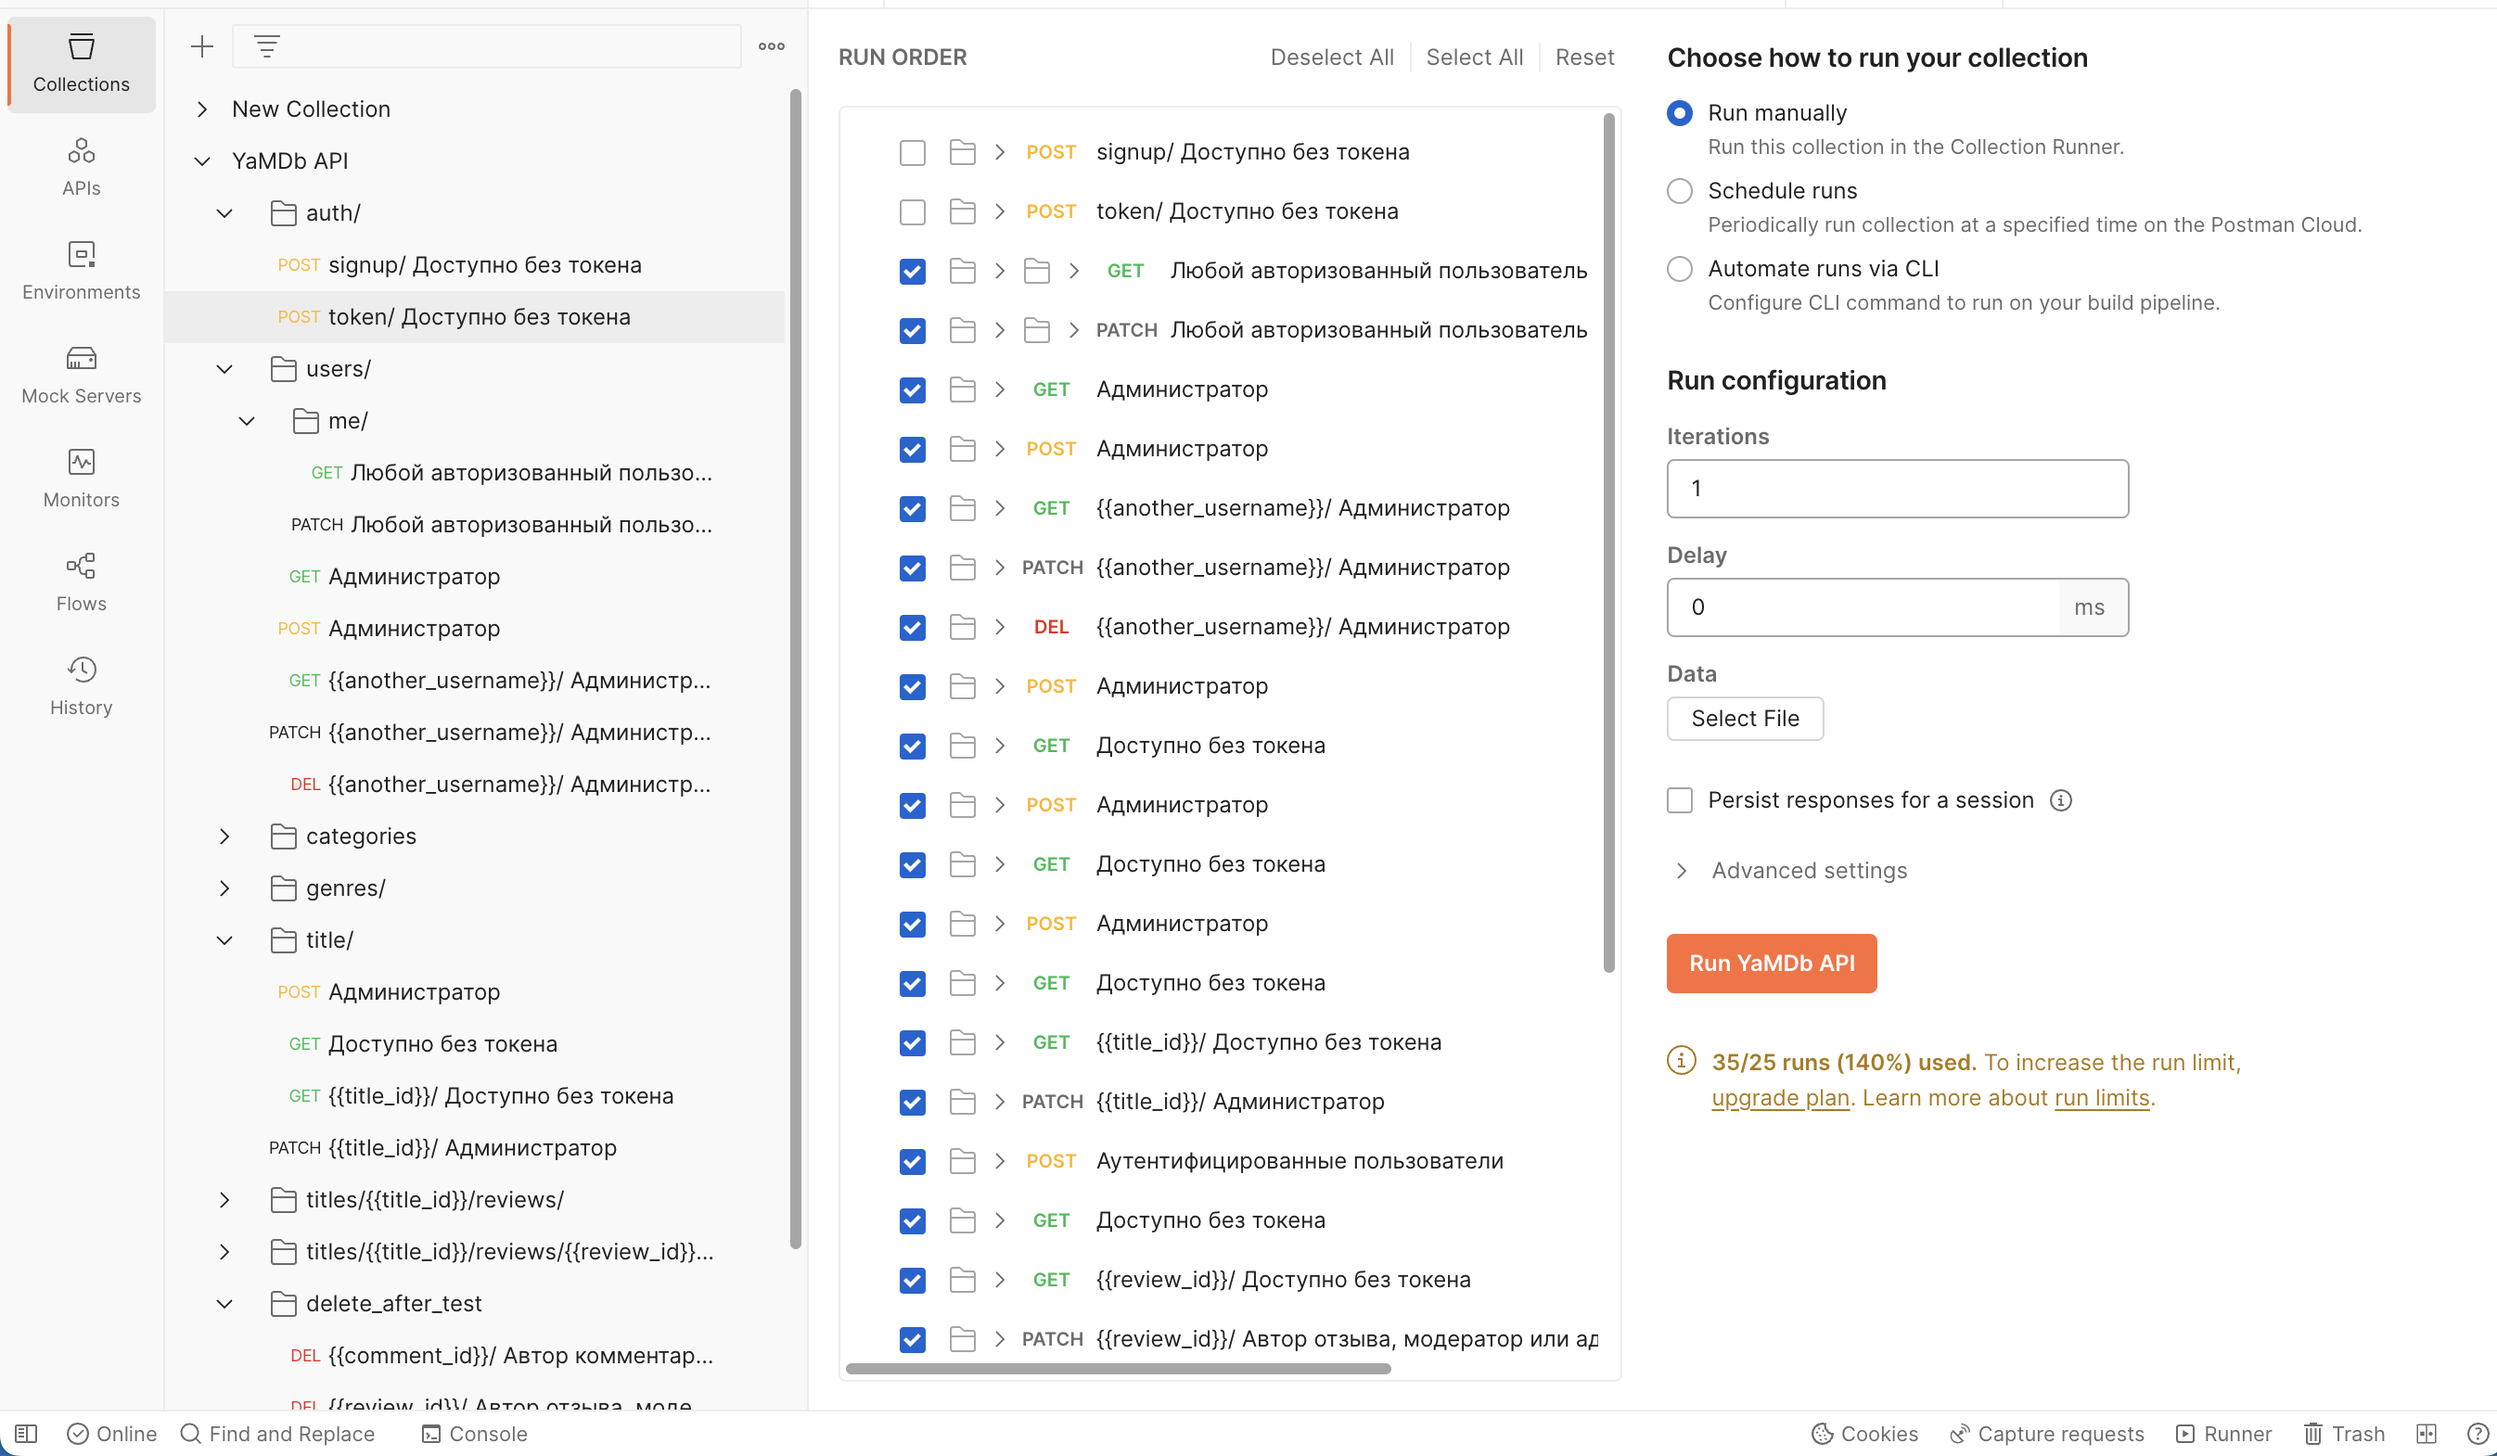
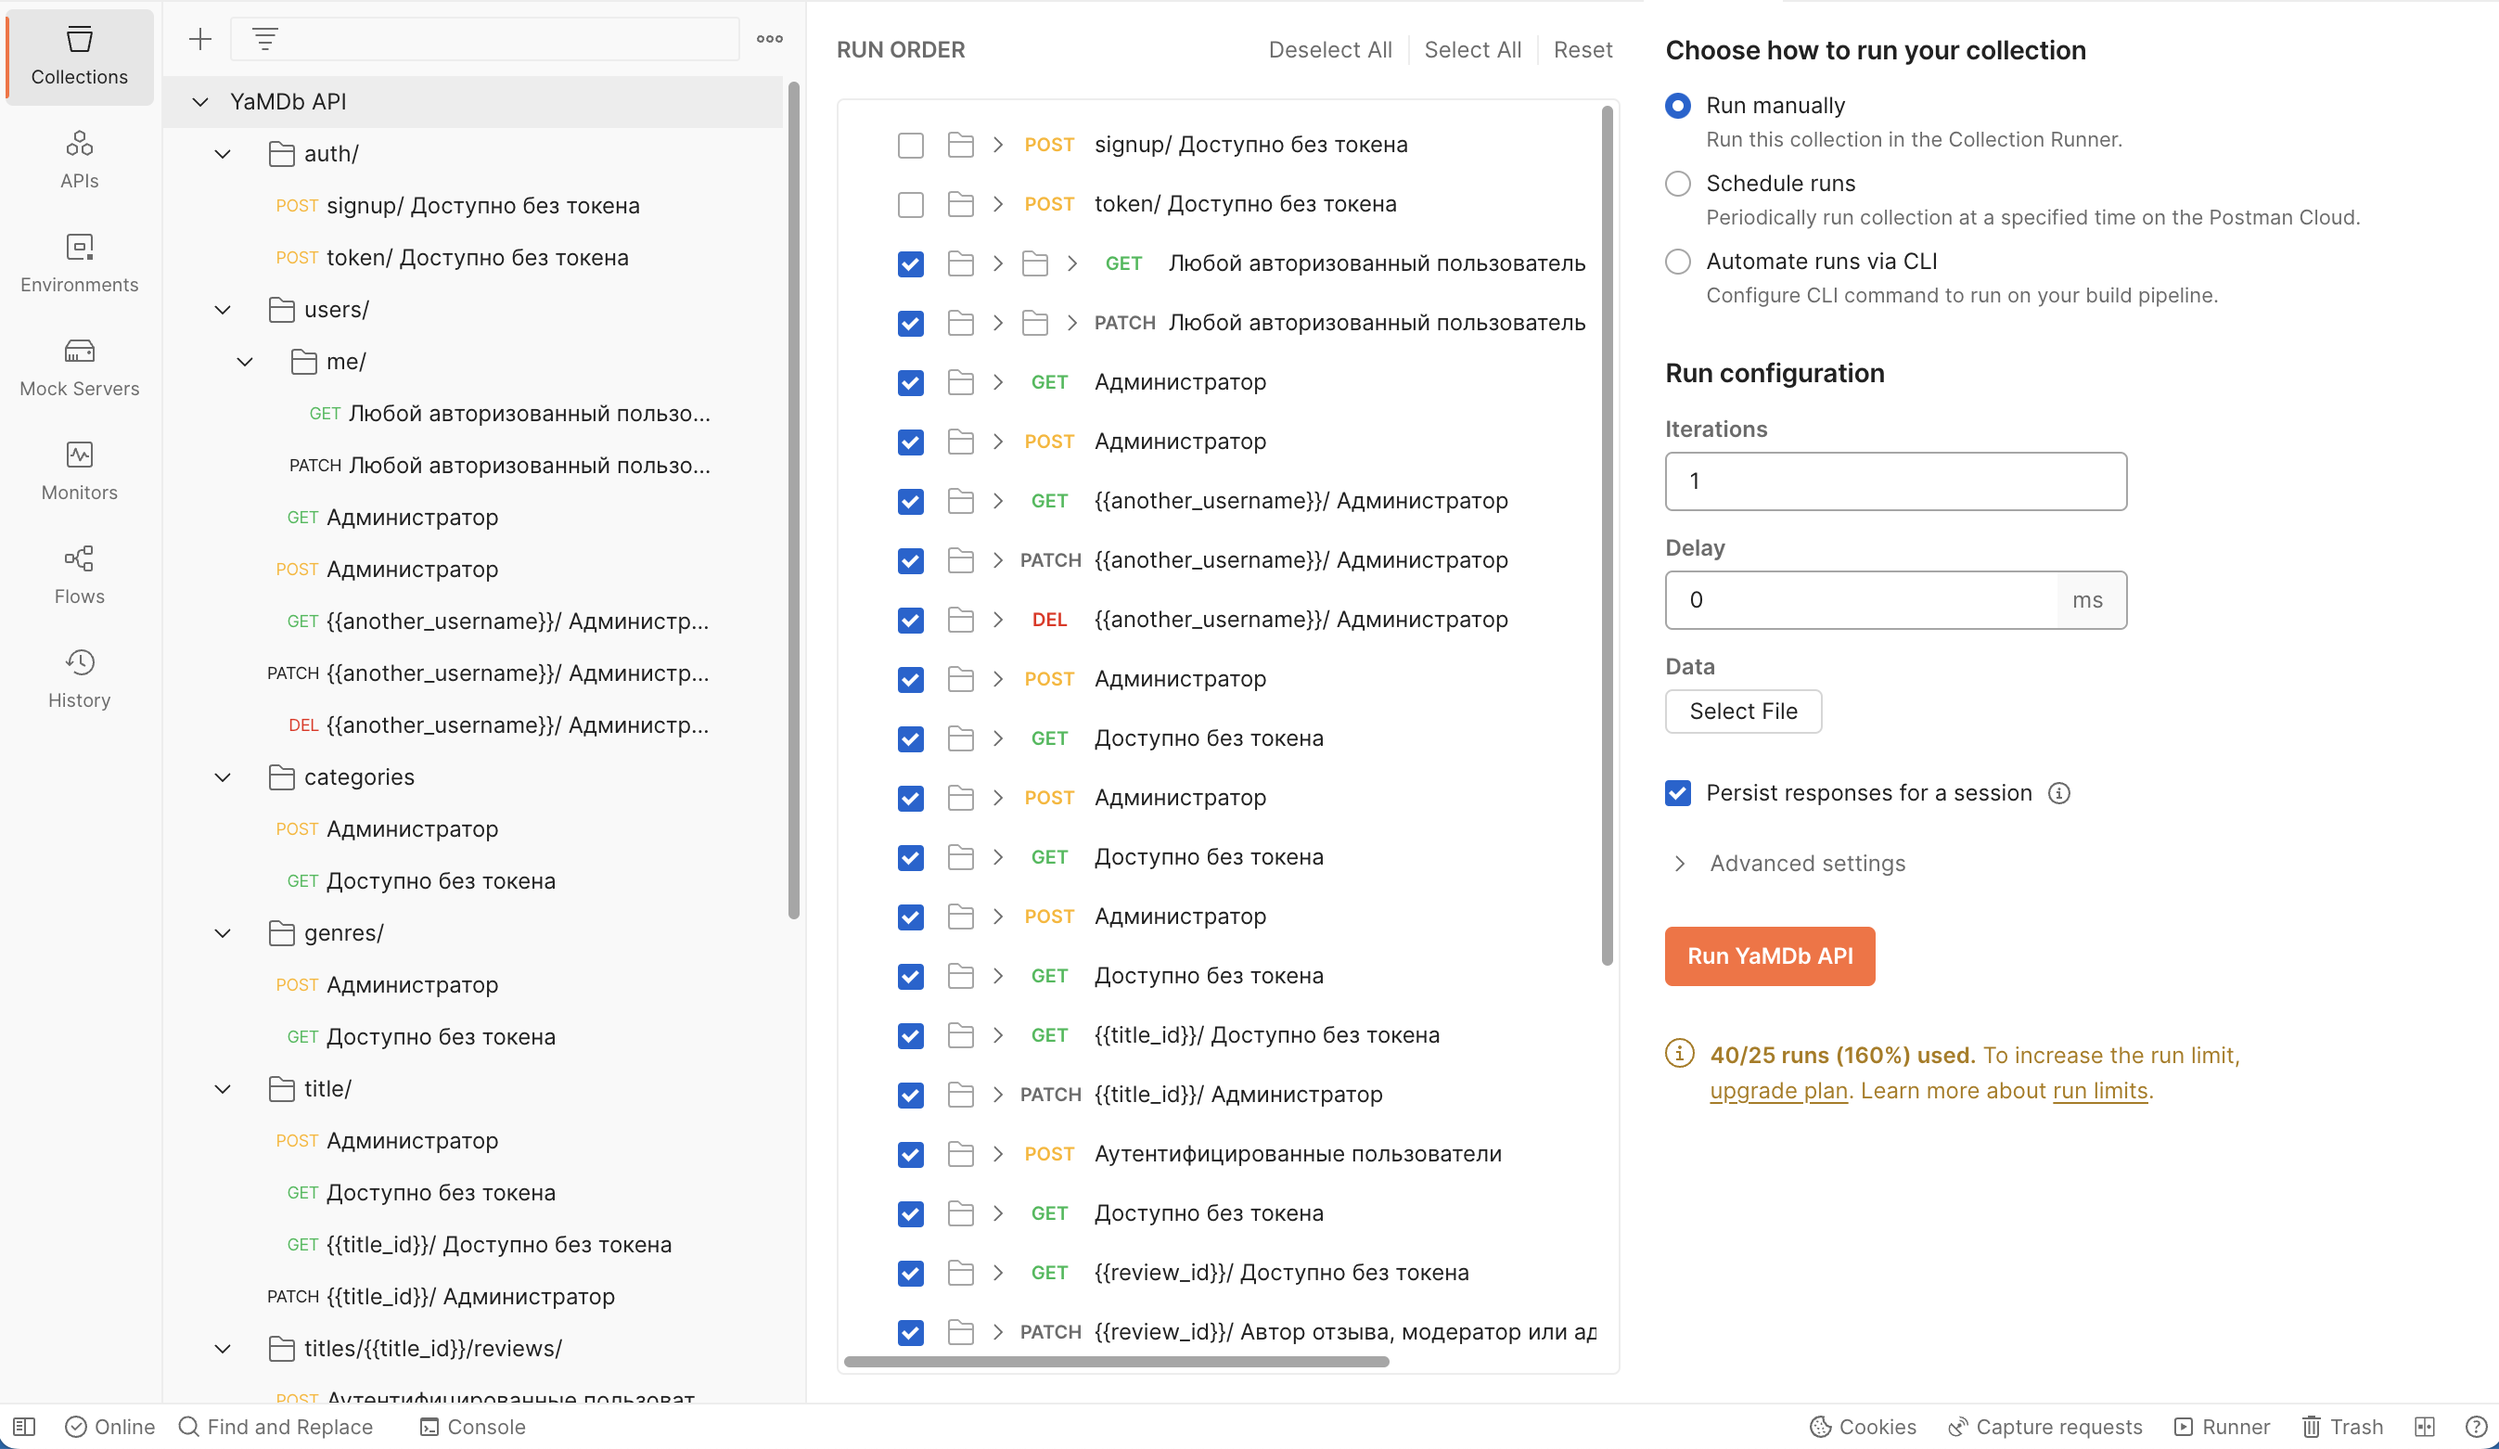
update readme

diff --git a/README.md b/README.md
@@ -18,6 +18,9 @@ Email: admin@admin.ru
 
 - в разделе `Environments` импортируем `YaMDB_env.postman_environment.json`.
 
+>Не забываем выбрать окружение установив напротив галочку.
+>![select](/image/select_env.png)
+
 Тесты.
 
 1. Запускаем сервер.
@@ -33,7 +36,8 @@ Email: admin@admin.ru
 
 ![run](/image/run.png)
 
-Снимаем галочки с первых двух запросов (`auth/signup` и `auth/token`).
+Снимаем галочки с первых двух запросов `auth/signup` и `auth/token`.
+> Чтобы сохранялись результаты запросов, ставим галочку `Persist responses for a session`
 
 ![prepare](/image/prepare.png)
 
@@ -41,6 +45,9 @@ Email: admin@admin.ru
 
 ![res](/image/res.png)
 
+Если указан `Persist responses for a session`, то нажав на имя теста можно увидеть запрос
+
+![check](/image/check.png)
 
 Важно:
 Тесты идут в хронологическом порядке, в конце все созданные объекты удаляются.  Проверяется схема ответов. Не проверяется бизнес-логика (пока).
